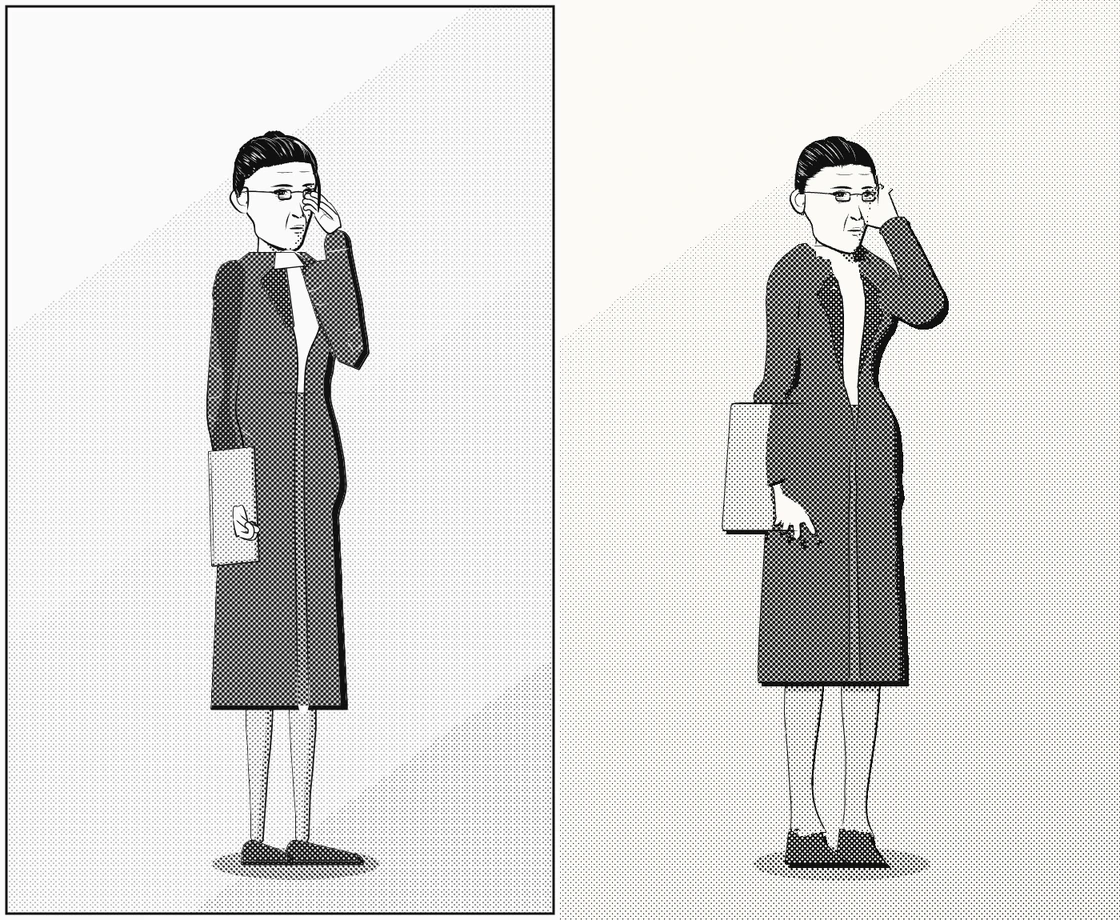
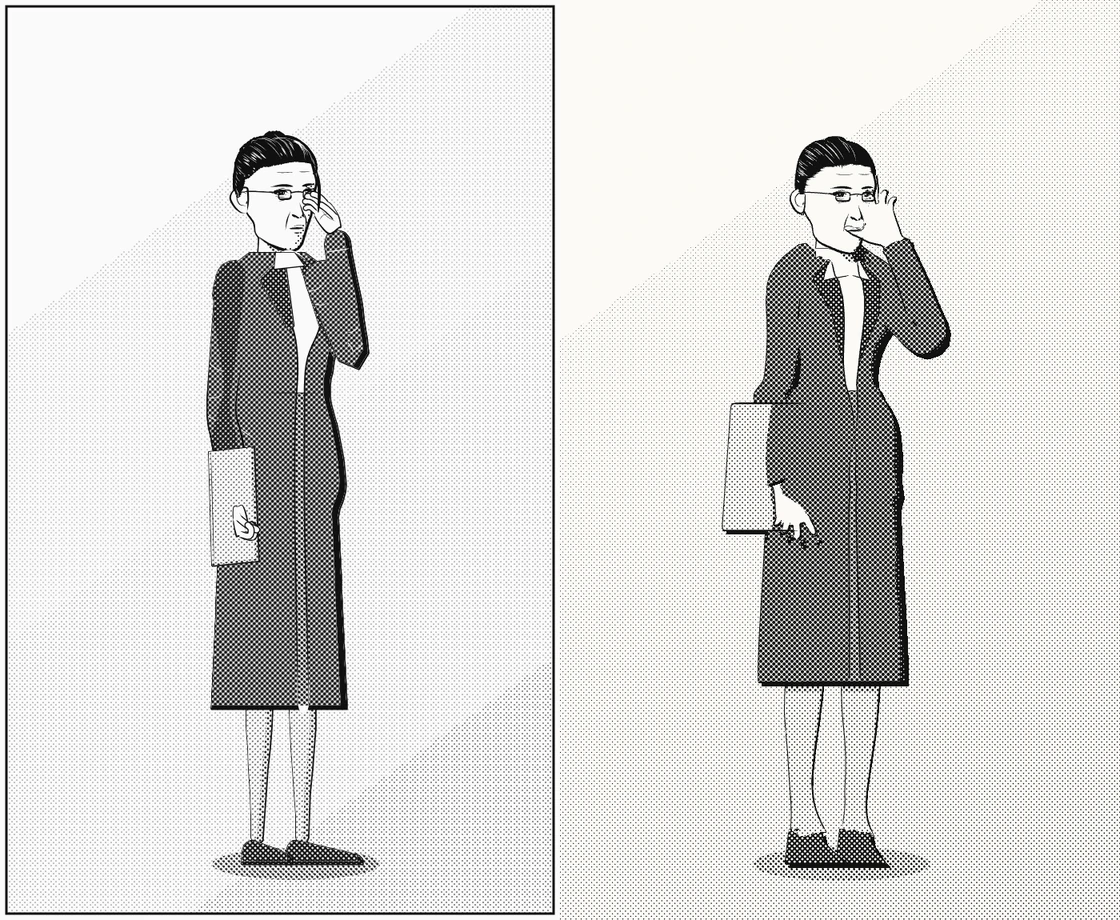
Work in progress: drawings to 3D Р13–Р20
Claude-Session: https://claude.ai/code/session_01WT1L4WBJdxtpyR6gM4uaxn

Changed region(s): [[0.7188, 0.1826, 0.875, 0.4565]]

diff --git a/to3d/r14-s14-kira/tools/web/kira.js b/to3d/r14-s14-kira/tools/web/kira.js
@@ -213,7 +213,7 @@ const A = window.A = {
     camera.position.set(t[0] + Math.sin(yaw) * Math.cos(pitch) * dist, t[1] + Math.sin(pitch) * dist, t[2] + Math.cos(yaw) * Math.cos(pitch) * dist);
     camera.lookAt(t[0], t[1], t[2]); camera.updateProjectionMatrix(); camera.updateMatrixWorld();
     // the light comes from the picture's top left, wherever the picture is taken from (the drawing's rule)
-    const ly = yaw + (c.lightYaw ?? -0.42), le = c.lightUp ?? 0.8;
+    const ly = yaw + (c.lightYaw ?? -0.45), le = c.lightUp ?? 0.5;
     uniforms.L.value.set(Math.sin(ly) * Math.cos(le), Math.sin(le), Math.cos(ly) * Math.cos(le));
   },
   render() {

diff --git a/to3d/r14-s14-kira/tools/build.py b/to3d/r14-s14-kira/tools/build.py
@@ -260,7 +260,7 @@ back = sheet(f_all, (4.0 + 5.0 * np.clip((yv_ + 105) / 60, 0, 1)) * K, 'hair_d')
 # the side lock on her left temple: lies on the skin
 side = sheet(np.maximum.reduce([f_sd, -(z_ + 6), -HV[:, 0] / K]), (6.0 + 5.5 * np.clip((yv_ + 105) / 60, 0, 1)) * K, 'hair')
 # the fringe: glued at the crown, standing off the forehead more and more toward its points
-lift = (6.0 + 7.5 * np.clip((yv_ + 105) / 70, 0, 1)) * K
+lift = (6.5 + 5.5 * np.clip((yv_ + 105) / 70, 0, 1)) * K
 wf_ = np.clip((72 - th_) / 26, 0, 1)
 f_fringe = np.where(HV[:, 0] < 0, wf_ * f_fr + (1 - wf_) * f_all, f_fr + (1 - wf_) * 30)
 fringe = sheet(np.maximum.reduce([f_fringe, -(z_ + 48)]), lift, 'hair')
